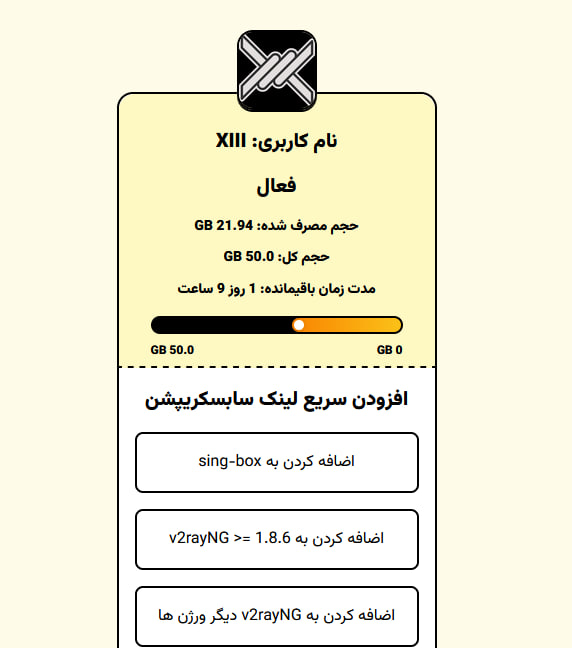
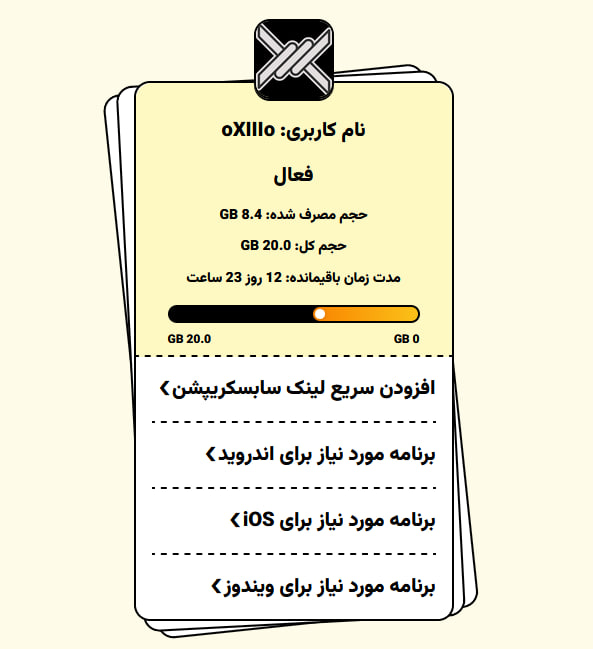
Added accordion

Changed region(s): [[0.1486, 0.0309, 0.8322, 1.0]]

diff --git a/subscription/index.html b/subscription/index.html
@@ -87,12 +87,51 @@
       display: flex;
       flex-direction: column;
       gap: 1rem;
+      overflow: hidden;
     }
     .profile-card__header {
-      text-align: center;
+      text-align: right;
       font-size: 1.25em;
       font-weight: bold;
       color: #000;
+      display: flex;
+      -webkit-box-pack: justify;
+      justify-content: right;
+      cursor: pointer;
+    }
+    .profile-card__header::after {
+      content: "\276F";
+      width: 1rem;
+      height: 1rem;
+      text-align: center;
+      -webkit-transition: all 0.3s;
+      transition: all 0.3s;
+    }
+    input {
+      position: absolute;
+      opacity: 0;
+      z-index: -1;
+    }
+    .accordion {
+      width: 100%;
+      overflow: hidden;
+    }
+    .accordion:last-child {
+      margin-bottom: 0;
+    }
+    .accordion-content {
+      max-height: 0;
+      padding: 0 1rem;
+      -webkit-transition: all 0.3s;
+      transition: all 0.3s;
+    }
+    input:checked+.profile-card__header::after {
+      -webkit-transform: rotate(90deg);
+      transform: rotate(90deg);
+    }
+    input:checked~.accordion-content {
+      max-height: 100vh;
+      padding: 16px;
     }
     .profile-card__separator {
       border-bottom: 2px dashed #000;
@@ -109,6 +148,7 @@
       color: #000;
       transition: box-shadow 200ms ease;
       text-decoration: none;
+      margin-bottom: 0.5rem;
     }
     .profile-card__links-button:hover {
       box-shadow: -3px 3px 0 #000;
@@ -223,57 +263,75 @@
       </div>
     </div>
     <div class="profile-card__links">
-      <h1 class="profile-card__header">
-        افزودن سریع لینک سابسکریپشن
-      </h1>
-      <a class="profile-card__links-button" href="sing-box://import-remote-profile?url={{ user.subscription_url | urlencode }}#{{ user.username | urlencode }}"
-        rel="noopener noreferrer" target="_blank">اضافه کردن به sing-box</a>
-      <a class="profile-card__links-button" href="v2rayng://install-sub?url={{ user.subscription_url }}&name={{ user.username }}"
-        rel="noopener noreferrer" target="_blank">اضافه کردن به v2rayNG >= 1.8.6</a>
-      <a class="profile-card__links-button" href="v2rayng://install-config?url={{ user.subscription_url }}"
-        rel="noopener noreferrer" target="_blank">اضافه کردن به v2rayNG دیگر ورژن ها</a>
-      <a class="profile-card__links-button" href="sn://subscription?url={{ user.subscription_url }}&name={{ user.username }}"
-        rel="noopener noreferrer" target="_blank">اضافه کردن به NekoBox</a>
-      <a class="profile-card__links-button" href="streisand://import/{{ user.subscription_url }}"
-        rel="noopener noreferrer" target="_blank">اضافه کردن به Streisand</a>
+      <div class="accordion">
+        <input type="checkbox" name="quick-add" id="quick-add">
+        <label class="profile-card__header" for="quick-add">
+          افزودن سریع لینک سابسکریپشن
+        </label>
+        <div class="accordion-content">
+          <a class="profile-card__links-button" href="sing-box://import-remote-profile?url={{ user.subscription_url | urlencode }}#{{ user.username | urlencode }}"
+            rel="noopener noreferrer" target="_blank">اضافه کردن به sing-box</a>
+          <a class="profile-card__links-button" href="v2rayng://install-config?url{{ user.subscription_url }}"
+            rel="noopener noreferrer" target="_blank">اضافه کردن به v2rayNG</a>
+          <a class="profile-card__links-button" href="sn://subscription?url={{ user.subscription_url }}&name={{ user.username }}"
+            rel="noopener noreferrer" target="_blank">اضافه کردن به NekoBox</a>
+          <a class="profile-card__links-button" href="streisand://import/{{ user.subscription_url }}"
+            rel="noopener noreferrer" target="_blank">اضافه کردن به Streisand</a>
+        </div>
+      </div>
       <div class="profile-card__separator"></div>
-      <h1 class="profile-card__header">
-        برنامه اندروید
-      </h1>
-      <a class="profile-card__links-button"
-      href="https://github.com/SagerNet/sing-box/releases/download/v1.5.0-rc.6/SFA-1.5.0-rc.6-universal.apk"
-      rel="noopener noreferrer" target="_blank">sing-box</a>
-      <a class="profile-card__links-button"
-        href="https://github.com/2dust/v2rayNG/releases/download/1.8.8/v2rayNG_1.8.8.apk" rel="noopener noreferrer"
-        target="_blank">v2rayNG - GitHub</a>
-      <a class="profile-card__links-button" href="https://play.google.com/store/apps/details?id=com.v2ray.ang"
-        rel="noopener noreferrer" target="_blank">v2rayNG - Google Play</a>
-      <a class="profile-card__links-button"
-        href="https://github.com/MatsuriDayo/NekoBoxForAndroid/releases/download/1.2.5/NB4A-1.2.5-arm64-v8a.apk"
-        rel="noopener noreferrer" target="_blank">NekoBox v8a</a>
-      <a class="profile-card__links-button"
-        href="https://github.com/MatsuriDayo/NekoBoxForAndroid/releases/download/1.2.5/NB4A-1.2.5-armeabi-v7a.apk"
-        rel="noopener noreferrer" target="_blank">NekoBox v7a</a>
+      <div class="accordion">
+        <input type="checkbox" name="android" id="android">
+        <label class="profile-card__header" for="android">
+          برنامه مورد نیاز برای اندروید
+        </label>
+        <div class="accordion-content">
+          <a class="profile-card__links-button"
+          href="https://github.com/SagerNet/sing-box/releases/download/v1.6.0-beta.2/SFA-1.6.0-beta.2-universal.apk"
+          rel="noopener noreferrer" target="_blank">sing-box</a>
+          <a class="profile-card__links-button"
+            href="https://github.com/2dust/v2rayNG/releases/download/1.8.9/v2rayNG_1.8.9.apk" rel="noopener noreferrer"
+            target="_blank">v2rayNG - GitHub</a>
+          <a class="profile-card__links-button" href="https://play.google.com/store/apps/details?id=com.v2ray.ang"
+            rel="noopener noreferrer" target="_blank">v2rayNG - Google Play</a>
+          <a class="profile-card__links-button"
+            href="https://github.com/MatsuriDayo/NekoBoxForAndroid/releases/download/1.2.7/NB4A-1.2.7-arm64-v8a.apk"
+            rel="noopener noreferrer" target="_blank">NekoBox v8a</a>
+          <a class="profile-card__links-button"
+            href="https://github.com/MatsuriDayo/NekoBoxForAndroid/releases/download/1.2.7/NB4A-1.2.7-armeabi-v7a.apk"
+            rel="noopener noreferrer" target="_blank">NekoBox v7a</a>
+        </div>
+      </div>
       <div class="profile-card__separator"></div>
-      <h1 class="profile-card__header">
-        برنامه iOS
-      </h1>
-      <a class="profile-card__links-button" href="https://apps.apple.com/us/app/sing-box/id6451272673"
-        rel="noopener noreferrer" target="_blank">sing-box</a>
-      <a class="profile-card__links-button" href="https://apps.apple.com/us/app/streisand/id6450534064"
-        rel="noopener noreferrer" target="_blank">Streisand</a>
-      <a class="profile-card__links-button" href="https://apps.apple.com/us/app/shadowrocket/id932747118"
-        rel="noopener noreferrer" target="_blank">Shadowrocket 3$</a>
+      <div class="accordion">
+        <input type="checkbox" name="ios" id="ios">
+        <label class="profile-card__header" for="ios">
+          برنامه مورد نیاز برای iOS
+        </label>
+        <div class="accordion-content">
+          <a class="profile-card__links-button" href="https://apps.apple.com/us/app/sing-box/id6451272673"
+            rel="noopener noreferrer" target="_blank">sing-box</a>
+          <a class="profile-card__links-button" href="https://apps.apple.com/us/app/streisand/id6450534064"
+            rel="noopener noreferrer" target="_blank">Streisand</a>
+          <a class="profile-card__links-button" href="https://apps.apple.com/us/app/shadowrocket/id932747118"
+            rel="noopener noreferrer" target="_blank">Shadowrocket 3$</a>
+        </div>
+      </div>
       <div class="profile-card__separator"></div>
-      <h1 class="profile-card__header">
-        برنامه ویندوز
-      </h1>
-      <a class="profile-card__links-button"
-        href="https://github.com/2dust/v2rayN/releases/download/6.29/zz_v2rayN-With-Core-SelfContained.7z"
-        rel="noopener noreferrer" target="_blank">v2rayN</a>
-      <a class="profile-card__links-button"
-        href="https://github.com/MatsuriDayo/nekoray/releases/download/3.21/nekoray-3.21-2023-09-12-windows64.zip"
-        rel="noopener noreferrer" target="_blank">nekoray</a>
+      <div class="accordion">
+        <input type="checkbox" name="windows" id="windows">
+        <label class="profile-card__header" for="windows">
+          برنامه مورد نیاز برای ویندوز
+        </label>
+        <div class="accordion-content">
+          <a class="profile-card__links-button"
+            href="https://github.com/2dust/v2rayN/releases/download/6.29/zz_v2rayN-With-Core-SelfContained.7z"
+            rel="noopener noreferrer" target="_blank">v2rayN</a>
+          <a class="profile-card__links-button"
+            href="https://github.com/MatsuriDayo/nekoray/releases/download/3.23/nekoray-3.23-2023-10-14-windows64.zip"
+            rel="noopener noreferrer" target="_blank">nekoray</a>
+        </div>
+      </div>
     </div>
   </div>
 </body>
